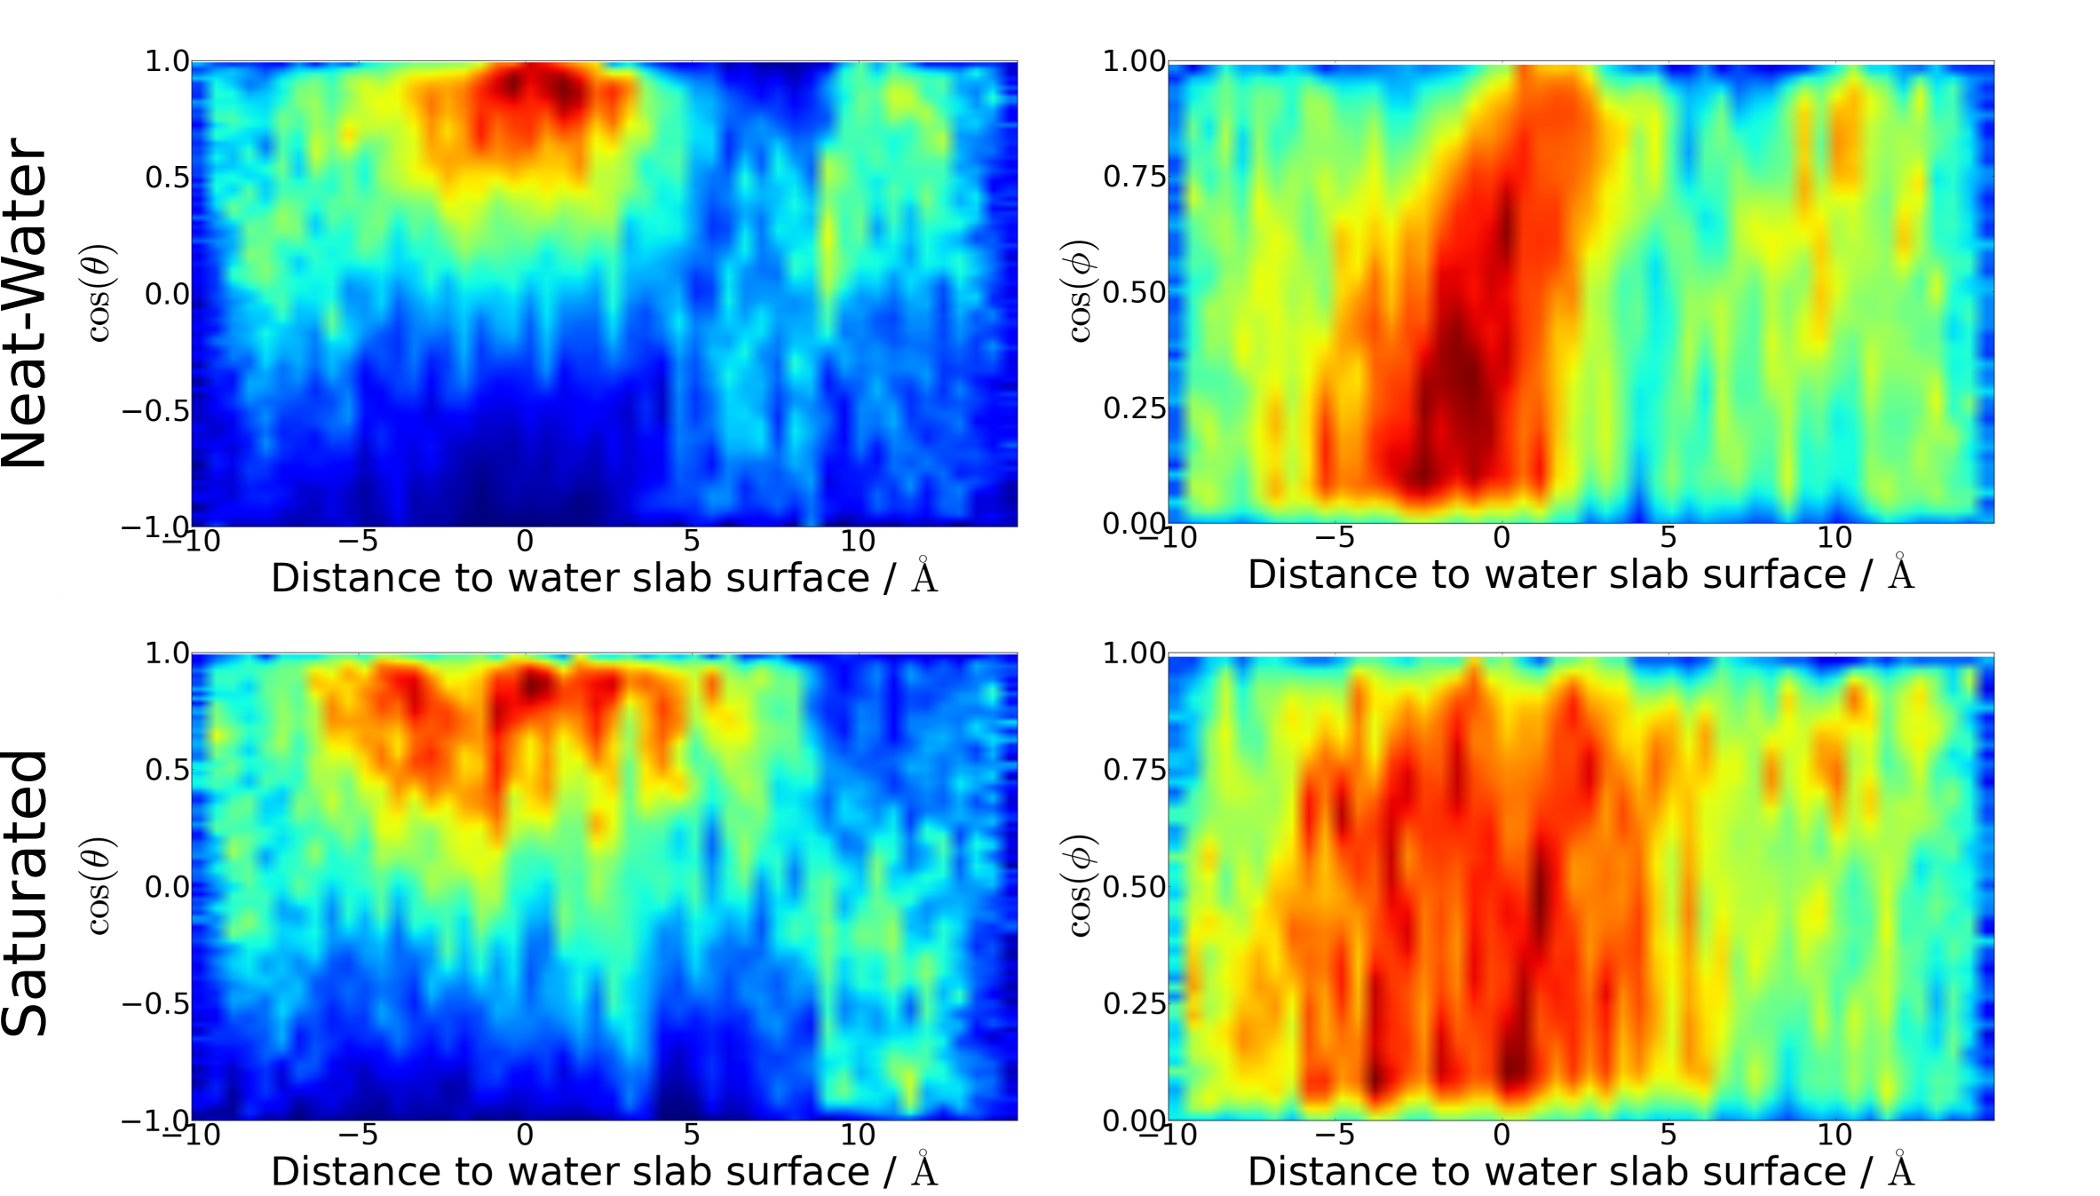
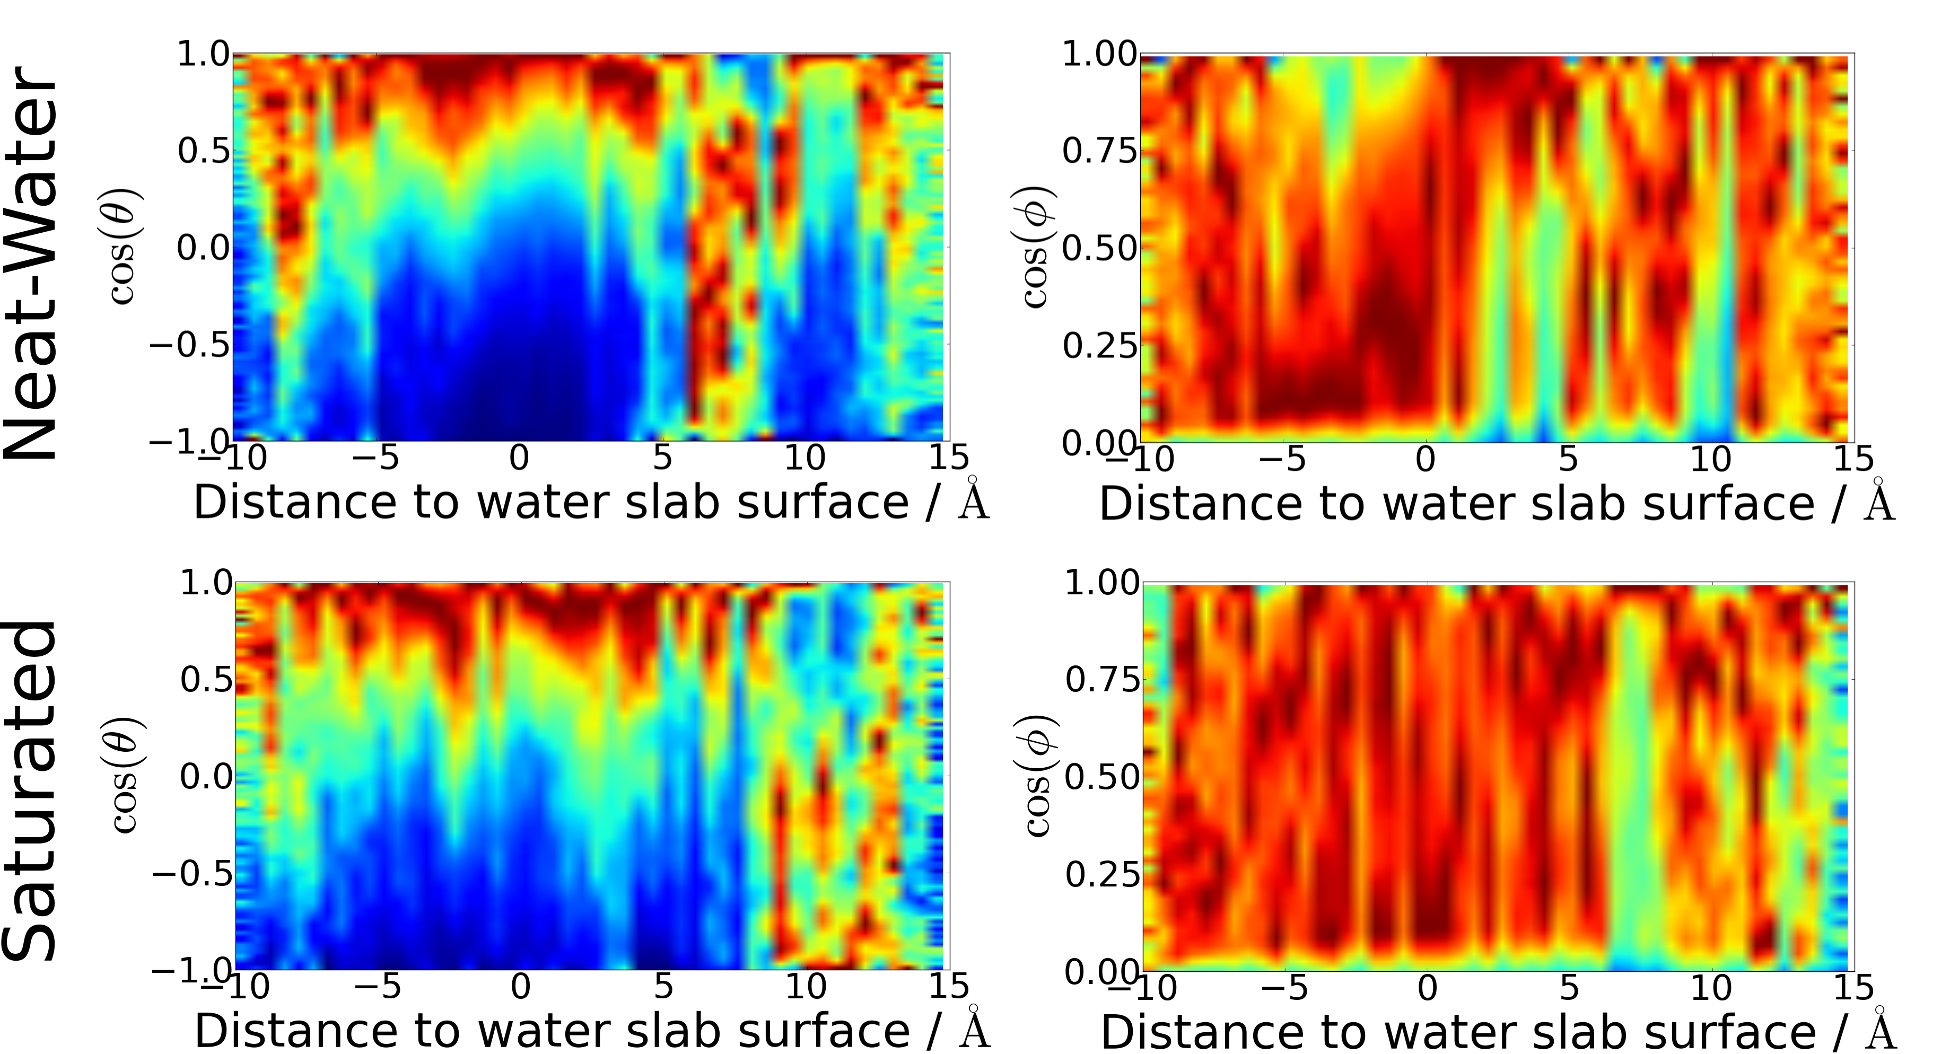
New transit images for orientation using new normalization scheme for 2d histograms

diff --git a/TransitOrientation.tex b/TransitOrientation.tex
@@ -2,7 +2,7 @@
 
 \subsection {\suldiox~Orientation}
 
-	The orientation of a \suldiox~molecule adsorbing to an aqueous surface was determined through an analysis process to find the angles $\theta$ and $\phi$ (figure \ref{fig:water-angles}). For each timestep of the SMD simulations the orientation angles were determined for the transiting \suldiox~as it was pulled into the water slab from the gas phase, both in the neat-water and saturated slab systems. The angle cosine values were collected for the 50 simulations for both systems, and the binned with the position of the \suldiox~relative to the water slab surface location. The resulting 2-dimensional histograms shown in figure \ref{fig:so2-transit-angles} show the orientation trend for the \suldiox~in the gas phase (above 0\angs), near the aqueous surface (near 0\angs), and after entering the water bulk (below 0\angs). Only the surface into which the transiting \suldiox~was steered is shown for the saturated system.
+	The orientation of a \suldiox~molecule during adsorption to, and absorbtion in an aqueous surface was determined through an analysis of the transit SMD simulations. The angles $\theta$ and $\phi$ (figure \ref{fig:water-angles}) were calculated for each timestep of the SMD simulations as the transiting \suldiox~was pulled into the water slab from the gas phase, both in the neat-water and saturated slab systems. The angle cosine values were collected for the 50 simulations of both systems for each distance from the water surface, resulting in the 2-dimensional histograms shown in figure \ref{fig:so2-transit-angles}. Only the surface into which the transiting \suldiox~was steered into is shown for the saturated system's analysis.
 
 \begin{figure}[h!]
 	\begin{center}
@@ -12,7 +12,9 @@
 	\end{center}
 \end{figure}
 
-	%From its starting position 20\angs above the water surface, until the \suldiox~moves to within 5\angs of the surface of both systems, the orientation is isotropic in both $\theta$ and $\phi$. Upon approaching the saturated surface at approx. 5\angs, the \suldiox~$\phi$ orientation distribution begins to cluster near $\cos(\phi)=1$, with the $\theta$ distribution remaining more isotropic, but with a trend of $\cos(\theta)>0$. At 5\angs the \suldiox~begins interacting with the other \suldiox~molecules that sit atop the water, and the resulting orientation distribution suggests that contact with the \suldiox~layer causes the adsorbing molecule to lie more flat to the surface. Within this same region from 0-5\angs above the surface, the $\phi$ distribution of the neat-\wat~system remains isotropic. The intensity of the distribution (darker blue) also indicates that the \suldiox~spends little time in this region, as it is quickly adsorbed further into the water bulk.
+	From its starting position 20\angs above the water surface, until the \suldiox~moves to within 10\angs of the surface of both systems, the orientation is isotropic in $\phi$. The trend for the bisector angle, $\theta$, upon approaching the surface is to become more perpendicular to the surface with the \suldiox~sulfur pointing into the water phase. At the point when the \suldiox~reaches the surface location (distance$=0$), the bisector is mostly perpendicular in both the neat-water and saturated systems. In the distribution of $\phi$, both systems show isotropy in the orientation
+ 
+  Upon approaching the saturated surface at approx. 5\angs, the \suldiox~$\phi$ orientation distribution begins to cluster near $\cos(\phi)=1$, with the $\theta$ distribution remaining more isotropic, but with a trend of $\cos(\theta)>0$. At 5\angs the \suldiox~begins interacting with the other \suldiox~molecules that sit atop the water, and the resulting orientation distribution suggests that contact with the \suldiox~layer causes the adsorbing molecule to lie more flat to the surface. Within this same region from 0-5\angs above the surface, the $\phi$ distribution of the neat-\wat~system remains isotropic. The intensity of the distribution (darker blue) also indicates that the \suldiox~spends little time in this region, as it is quickly adsorbed further into the water bulk.
 
 	%Just below the water surface as the distance moves into negative values, both systems show clear orientational preferences. In both systems the bisector orientation clusters such that $\cos(\theta)<0.5$, with most of the distribution intensity around $\cos(\theta)=1$. This suggests that \suldiox~in a water surface orients with the sulfur pointing into the water bulk, and the oxygens pointing towards the surface water molecules.
 
